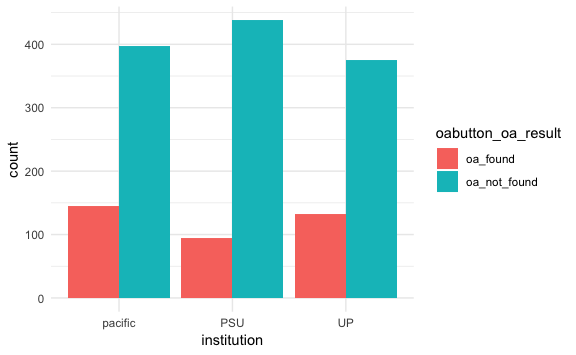
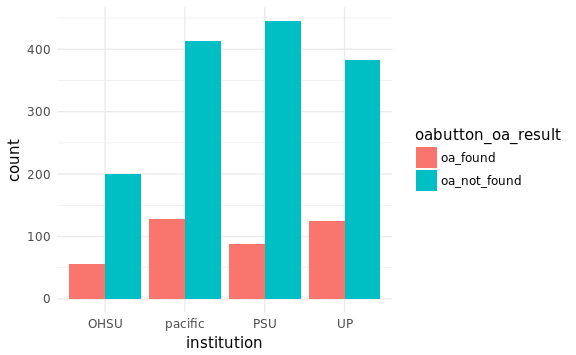
update summary

diff --git a/code/02-ILL-summary.md b/code/02-ILL-summary.md
@@ -1,7 +1,7 @@
 ILL Summary of OA Sources
 ================
 Jessica Minnier
-2018-08-10
+2018-08-17
 
 -   [Table of OA Results](#table-of-oa-results)
     -   [OA Button](#oa-button)
@@ -21,9 +21,9 @@ res %>% tabyl(oabutton_oa_result) %>% adorn_totals() %>% adorn_pct_formatting()
 
 | oabutton\_oa\_result |     n| percent |
 |:---------------------|-----:|:--------|
-| oa\_found            |   372| 23.5%   |
-| oa\_not\_found       |  1211| 76.5%   |
-| Total                |  1583| 100.0%  |
+| oa\_found            |   397| 21.6%   |
+| oa\_not\_found       |  1442| 78.4%   |
+| Total                |  1839| 100.0%  |
 
 ``` r
 res %>% ggplot(aes(x=institution,fill=oabutton_oa_result)) + 
@@ -42,11 +42,11 @@ res %>% tabyl(unpaywall_oa_result) %>% adorn_totals() %>% adorn_pct_formatting()
 
 | unpaywall\_oa\_result |     n| percent |
 |:----------------------|-----:|:--------|
-| doi\_input\_error     |    20| 1.3%    |
-| no\_doi\_input        |   344| 21.7%   |
-| oa\_found             |   210| 13.3%   |
-| oa\_not\_found        |  1009| 63.7%   |
-| Total                 |  1583| 100.0%  |
+| doi\_input\_error     |    25| 1.4%    |
+| no\_doi\_input        |   444| 24.1%   |
+| oa\_found             |   233| 12.7%   |
+| oa\_not\_found        |  1137| 61.8%   |
+| Total                 |  1839| 100.0%  |
 
 ``` r
 res %>% ggplot(aes(x=institution,fill=unpaywall_oa_result)) + geom_bar(position = "dodge") + 
@@ -60,7 +60,7 @@ Crosstab
 
 Note OA button found some OA articles that did not have a doi, as well as some articles that had a doi. Unpaywall just found a few extra articles.
 
-Below is % (*n*) where % is percent of total number of queries 1583 and *n* is number of queries. The columns are unpaywall results and the rows are OA button results.
+Below is % (*n*) where % is percent of total number of queries 1839 and *n* is number of queries. The columns are unpaywall results and the rows are OA button results.
 
 ``` r
 res %>% tabyl(oabutton_oa_result, unpaywall_oa_result) %>% 
@@ -68,22 +68,40 @@ res %>% tabyl(oabutton_oa_result, unpaywall_oa_result) %>%
   adorn_percentages(denominator = "all") %>%
   adorn_pct_formatting() %>% 
   adorn_ns() %>%
-  adorn_title() 
+  adorn_title("combined") 
 ```
 
-|                      | unpaywall\_oa\_result |                |             |                |               |
-|----------------------|:----------------------|----------------|-------------|----------------|---------------|
-| oabutton\_oa\_result | doi\_input\_error     | no\_doi\_input | oa\_found   | oa\_not\_found | Total         |
-| oa\_found            | 0.3% (5)              | 1.3% (21)      | 12.8% (202) | 9.1% (144)     | 23.5% (372)   |
-| oa\_not\_found       | 0.9% (15)             | 20.4% (323)    | 0.5% (8)    | 54.6% (865)    | 76.5% (1211)  |
-| Total                | 1.3% (20)             | 21.7% (344)    | 13.3% (210) | 63.7% (1009)   | 100.0% (1583) |
+| oabutton\_oa\_result/unpaywall\_oa\_result | doi\_input\_error | no\_doi\_input | oa\_found   | oa\_not\_found | Total         |
+|:-------------------------------------------|:------------------|:---------------|:------------|:---------------|:--------------|
+| oa\_found                                  | 0.4% (8)          | 1.3% (23)      | 11.1% (204) | 8.8% (162)     | 21.6% (397)   |
+| oa\_not\_found                             | 0.9% (17)         | 22.9% (421)    | 1.6% (29)   | 53.0% (975)    | 78.4% (1442)  |
+| Total                                      | 1.4% (25)         | 24.1% (444)    | 12.7% (233) | 61.8% (1137)   | 100.0% (1839) |
+
+As a proportion of queries with a DOI:
+
+``` r
+res %>% 
+  filter(doi_present==1) %>%
+  tabyl(oabutton_oa_result, unpaywall_oa_result) %>% 
+  adorn_totals(where = c("row","col")) %>%
+  adorn_percentages(denominator = "all") %>%
+  adorn_pct_formatting() %>% 
+  adorn_ns() %>%
+  adorn_title("combined") 
+```
+
+| oabutton\_oa\_result/unpaywall\_oa\_result | doi\_input\_error | oa\_found   | oa\_not\_found | Total         |
+|:-------------------------------------------|:------------------|:------------|:---------------|:--------------|
+| oa\_found                                  | 0.6% (8)          | 14.6% (204) | 11.6% (162)    | 26.8% (374)   |
+| oa\_not\_found                             | 1.2% (17)         | 2.1% (29)   | 69.9% (975)    | 73.2% (1021)  |
+| Total                                      | 1.8% (25)         | 16.7% (233) | 81.5% (1137)   | 100.0% (1395) |
 
 ``` r
 res %>% ggplot(aes(x=oabutton_oa_result,fill=unpaywall_oa_result)) + geom_bar() + 
   theme_minimal() + ggtitle("OA Button results, by Unpaywall results")
 ```
 
-<img src="02-ILL-summary_files/figure-markdown_github/unnamed-chunk-7-1.png" width="100%" style="display: block; margin: auto;" />
+<img src="02-ILL-summary_files/figure-markdown_github/unnamed-chunk-8-1.png" width="100%" style="display: block; margin: auto;" />
 
 ``` r
 res %>% ggplot(aes(x=oabutton_oa_result,fill=unpaywall_oa_result)) + geom_bar(position = "fill") +
@@ -91,7 +109,7 @@ res %>% ggplot(aes(x=oabutton_oa_result,fill=unpaywall_oa_result)) + geom_bar(po
   theme_minimal() + ggtitle("OA Button results, showing proportion of Unpaywall results")
 ```
 
-<img src="02-ILL-summary_files/figure-markdown_github/unnamed-chunk-7-2.png" width="100%" style="display: block; margin: auto;" />
+<img src="02-ILL-summary_files/figure-markdown_github/unnamed-chunk-8-2.png" width="100%" style="display: block; margin: auto;" />
 
 Total found
 ===========
@@ -106,6 +124,6 @@ res %>%
 
 | oa\_by\_either\_method |     n| percent |
 |:-----------------------|-----:|:--------|
-| oa\_found              |   380| 24.0%   |
-| oa\_not\_found         |  1203| 76.0%   |
-| Total                  |  1583| 100.0%  |
+| oa\_found              |   426| 23.2%   |
+| oa\_not\_found         |  1413| 76.8%   |
+| Total                  |  1839| 100.0%  |
